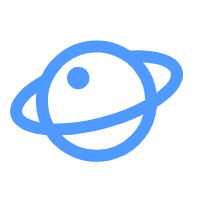
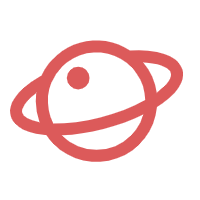
'添加自定义tabbar'

Changed region(s): [[0.03, 0.18, 0.93, 0.81]]

diff --git a/src/custom-tab-bar/index.tsx b/src/custom-tab-bar/index.tsx
@@ -1,6 +1,7 @@
 import React, { Component } from 'react'
 import Taro from '@tarojs/taro'
-import { View, Navigator, Text, Image } from '@tarojs/components'
+import { View, Navigator, Text, Image, Block } from '@tarojs/components'
+import { connect } from 'react-redux'
 import note1 from '../assets/images/note_1.png'
 import note2 from '../assets/images/note_2.png'
 import find1 from '../assets/images/find_1.png'
@@ -14,7 +15,7 @@ const tab = {
   },
   "colorSty": {
     "color": "#8d989c",
-    "selectedColor": "#509aff",
+    "selectedColor": "#DC5A5A",
   },
   "list": [
     {
@@ -32,26 +33,29 @@ const tab = {
       "iconPath": noteAdd
     },
     {
-      "pagePath": "/pages/finding/index",
+      "pagePath": "/pages/user/index",
       "text": "我的",
       "isSpecial": false,
       "iconPath": find2,
       "selectedPath": find1,
-      "key": "find"
+      "key": "user"
     }
   ]
 }
 
 interface TarBarProps {
-  selected: string;
+  tabSelected: string;
   addNote: () => void;
 }
+interface keyValueData {
+  [key: string]: any
+}
 
+@connect(({ app }: keyValueData) => ({
+  tabSelected: app.tabSelected
+}))
 class TarBar extends Component<TarBarProps> {
-
-  state = {
-    selected: ''
-  }
+  
   addNote = () => {
     Taro.navigateTo({
       url: '/pages/add/index?type=public'
@@ -59,7 +63,7 @@ class TarBar extends Component<TarBarProps> {
   }
 
   render () {
-    const { selected } = this.state
+    const { tabSelected } = this.props
     return (
       <View className="tab_box" style={tab.background}>
         {
@@ -74,8 +78,8 @@ class TarBar extends Component<TarBarProps> {
                   </View>
                 </View>
                 :
-                <Navigator className="tab_nav" hover-class="none" url={item.pagePath} data-url={item.pagePath} style={{'color': item.key === selected ? tab.colorSty.selectedColor : tab.colorSty.color}} open-type="switchTab">
-                  <Image className="tab_icon" src={item.key === selected ? item.selectedPath : item.iconPath}></Image>
+                <Navigator className="tab_nav" hover-class="none" url={item.pagePath} data-url={item.pagePath} style={{'color': item.key === tabSelected ? tab.colorSty.selectedColor : tab.colorSty.color}} open-type="switchTab">
+                  <Image className="tab_icon" src={item.key === tabSelected ? item.selectedPath : item.iconPath}></Image>
                   <Text>{item.text}</Text>
                 </Navigator>
               }

diff --git a/src/custom-tab-bar/index.less b/src/custom-tab-bar/index.less
@@ -7,21 +7,21 @@
   left: 0;
   z-index: 999;
   width: 100%;
-  height: 98px;
+  height: 49px;
   box-shadow: darkgrey 0px 0px 30px 5px ;
 }
 .middle-wrapper{
   position: absolute;
-  right: 310px;
+  right: 155px;
   bottom: 0;
   background-color: #fff;
-  width: 120px;
-  height: 120px;
+  width: 60px;
+  height: 60px;
   border-radius: 50%;
   border-top: 2px solid #f2f2f3;
 }
 .middle-wrapper.iphoneX-height{
-  bottom: 66px;
+  bottom: 33px;
 }
 .tab_nav{
   flex: 1;
@@ -29,33 +29,33 @@
   flex-direction: column;
   justify-content: center;
   align-items: center;
-  font-size: 20px;
+  font-size: 10px;
   height: 100%;
   position: relative;
 }
 .tab_icon{
-  width: 50px;
-  height: 50px;
+  width: 25px;
+  height: 25px;
 }
-.special-wrapper{
+.special-wrapper {
   position: absolute;
-  top: -30px;
-  width: 113px;
-  height: 113px;
+  top: -15px;
+  width: 56px;
+  height: 56px;
   border-radius: 50%;
   border-top: 2px solid #f2f2f3;
   background-color: #fff;
   text-align: center;
   box-sizing: border-box;
-  padding: 6px;
+  padding: 3px;
 }
-.special-wrapper .tab_icon{
-  width: 88px;
-  height: 88px;
-  padding-top: 7px;
-  font-size: 50px;
+.special-wrapper .tab_icon {
+  width: 44px;
+  height: 44px;
+  padding-top: 3px;
+  font-size: 20px;
 }
 .special-text-wrapper{
-  width: 56px;
-  height: 56px;
+  width: 28px;
+  height: 28px;
 }

diff --git a/src/pages/index/index.less b/src/pages/index/index.less
@@ -1,22 +1,22 @@
 .index-item {
   display: flex;
   flex-direction: column;
-  margin-top: 80px;
+  margin-top: 40px;
   .item-title {
     color: rgba(53, 53, 53, 100);
-    font-size: 38px;
+    font-size: 19px;
     text-align: left;
     font-family: PingFangSC-regular;
-    border-left: 2px solid #DC5A5A;
-    padding-left: 30px;
-    height: 52px;
+    border-left: 1px solid #DC5A5A;
+    padding-left: 15px;
+    height: 26px;
   }
   .item-content {
     color: rgba(16, 16, 16, 100);
-    font-size: 26px;
+    font-size: 13px;
     text-align: left;
     font-family: PingFangSC-regular;
-    padding: 40px 10px 0px 30px;
+    padding: 20px 5px 0px 15px;
   }
   .colorRed {
     color: red;
@@ -26,11 +26,11 @@
   position: absolute;
   bottom: 0;
   width: 100%;
-  height: 120px;
-  line-height: 120px;
+  height: 50px;
+  line-height: 50px;
   background-color: rgba(220, 90, 90, 100);
   text-align: center;
-  font-size: 40px;
+  font-size: 20px;
   color: #ffffff;
   border-radius: 0;
 }

diff --git a/src/pages/user/index.tsx b/src/pages/user/index.tsx
@@ -4,7 +4,7 @@ import { View } from '@tarojs/components'
 import { connect } from 'react-redux'
 import './index.less'
 
-interface HomeProps {
+interface UserProps {
   dispatch: any
 }
 interface keyValueData {
@@ -14,7 +14,7 @@ interface keyValueData {
 @connect(({ app }: keyValueData) => ({
   tabSelected: app.tabSelected
 }))
-export default class Home extends Component<HomeProps> {
+export default class User extends Component<UserProps> {
 
   componentWillMount () {
   }
@@ -27,11 +27,11 @@ export default class Home extends Component<HomeProps> {
   componentDidShow () {
     const { dispatch } = this.props
     const router = Taro.getCurrentInstance().router
-    if (router.path === '/pages/home/index') {
+    if (router.path === '/pages/user/index') {
       dispatch({
         type: 'app/setTabSelected',
         payload: {
-          tabSelected: 'home'
+          tabSelected: 'user'
         }
       })
     }

diff --git a/src/app.config.ts b/src/app.config.ts
@@ -2,6 +2,7 @@ export default {
   pages: [
     'pages/home/index',
     'pages/index/index',
+    'pages/user/index'
   ],
   window: {
     backgroundTextStyle: 'light',
@@ -18,11 +19,13 @@ export default {
     list: [
       {
         pagePath: 'pages/home/index',
+        iconPath: './assets/images/note_2.png',
         text: '首页'
       },
       {
-        pagePath: 'pages/home/index',
-        text: '首页'
+        pagePath: 'pages/user/index',
+        iconPath: './assets/images/find_2.png',
+        text: '我的'
       }
     ]
   }

diff --git a/src/models/app.js b/src/models/app.js
@@ -1,0 +1,17 @@
+import Taro from '@tarojs/taro'
+
+const initState ={
+  tabSelected: 'home'
+}
+export default {
+  namespace: "app",
+  state: initState,
+  effects: { },
+  reducers: {
+    setTabSelect (state, { payload }){
+      const { tabSelected } = payload
+      state.tabSelected = tabSelected;
+      return { ...state };
+    }
+  }
+};

diff --git a/config/index.js b/config/index.js
@@ -1,11 +1,12 @@
 const config = {
   projectName: 'myApp',
   date: '2020-8-24',
-  designWidth: 750,
+  designWidth: 375,
   deviceRatio: {
     640: 2.34 / 2,
     750: 1,
-    828: 1.81 / 2
+    828: 1.81 / 2,
+    375: 1 / 2
   },
   sourceRoot: 'src',
   outputRoot: 'dist',

diff --git a/src/app.tsx b/src/app.tsx
@@ -17,7 +17,7 @@ const store = dvaApp.getStore()
 class App extends Component {
 
   componentDidMount () {
-    Taro.hideHomeButton()
+    // Taro.hideHomeButton()
     this.getOauthStatus()
   }
 

diff --git a/src/pages/user/index.config.ts b/src/pages/user/index.config.ts
@@ -1,4 +1,4 @@
 export default {
-  navigationBarTitleText: '首页',
+  navigationBarTitleText: '我的',
   enableShareAppMessage: false
 }

diff --git a/src/models/index.js b/src/models/index.js
@@ -1,3 +1,4 @@
-export default[
-  
+import app from './app.js'
+export default [
+  app
 ]
